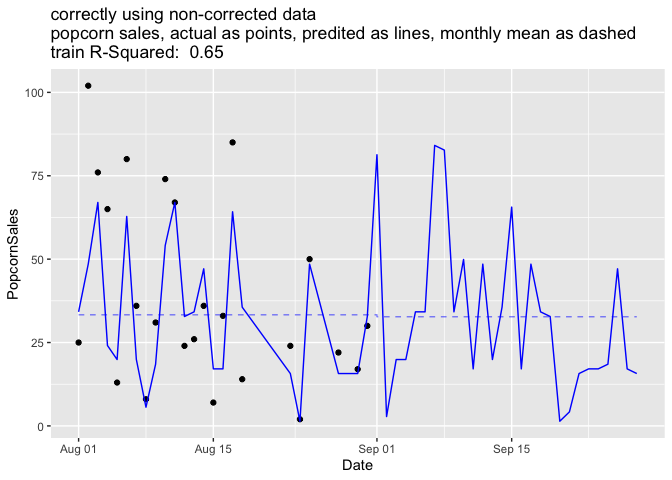
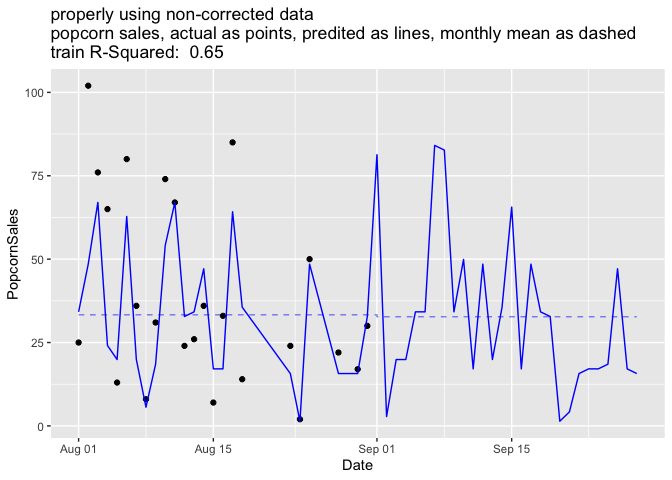
edit

Changed region(s): [[0.0625, 0.0, 0.4688, 0.0625]]

diff --git a/versioning_data/Please_Version_Data.md b/versioning_data/Please_Version_Data.md
@@ -6,20 +6,22 @@ Please Version Data
 
 An important goal of our [Win Vector LLC teaching
 offerings](https://win-vector.com/training-overview/) is to instill in
-engineers an empathy of how data is likely to be used. Having such
-engineers in your organization *greatly* increases the quality of data
-later available to your analysts and data scientists. This greatly
-expands what is possible in prediction and forecasting, which can lead
-to significant revenue opportunities.
+engineers some familiarity with and empathy for how data is likely to be
+used for analytics and business. Having such engineers in your
+organization *greatly* increases the quality of data later available to
+your analysts and data scientists. This in turn expands what is possible
+in prediction and forecasting, which can lead to significant revenue
+opportunities.
 
-I’d like to illustrate this with an example.
+I’d like to illustrate a data issue that can squander such opportunities
+with an example.
 
 ## An Example Problem
 
-Suppose you are purchasing predicted and scheduled movie attendance data
-for your region. The data is initially described as having aligned
-published movie schedules with a projection of attendance and looks like
-the following schedule from [The Roxie movie
+Suppose you are purchasing past scheduled and future predicted movie
+attendance data for your region. The data is initially described as
+having aligned published movie schedules with a projection of attendance
+and looks like the following schedule from [The Roxie movie
 house](https://roxie.com/calendar/).
 
 ``` r
@@ -250,7 +252,7 @@ events they *edit* the event record to reflect actual ticketed
 attendance. This correction seems like an improvement, until one
 attempts a project spanning both past (used for training) and future
 (used for application) data. This is a *severe* form of undesirable
-concept-drift or non-exchangeability. Or: we need the imposed practice
+concept-drift or data non-exchangeability. We need the imposed practice
 or rehearsal conditions to simulate the required performance conditions.
 
 No amount of back-testing on past data would show the effect. Only
@@ -296,7 +298,7 @@ d_est |>
 
 We now have the older estimates are just as bad as the future estimates-
 so learning to work with them will help us in the future. For our
-application is in fact an improvement.
+application this is in fact an improvement.
 
 Let’s repeat our modeling effort with the uncorrected (not retouched)
 data.
@@ -333,7 +335,7 @@ ggplot(
   geom_line(mapping=aes(y=PredictedPopcorn), color='Blue') +
   geom_step(mapping=aes(y=MeanPredictedPopcorn), directon='mid', color='Blue', alpha=0.5, linetype=2) +
   ggtitle(paste(
-    'correctly using non-corrected data\npopcorn sales, actual as points, predited as lines, monthly mean as dashed\ntrain R-Squared: ', 
+    'properly using non-corrected data\npopcorn sales, actual as points, predited as lines, monthly mean as dashed\ntrain R-Squared: ', 
     sprintf('%.2f', train_est_R2)))
 ```
 
@@ -350,8 +352,8 @@ such are not going to be available during application).
 ## Conclusion
 
 The performance of a model on held-out data is only a proxy measure for
-future model performance. In our example we see that this common proxy
-idea breaks down when there is a data concept-change between the
+future model performance. In our example we see that the desired
+connection breaks down when there is a data concept-change between the
 training and application periods. The fix is: using “as of” data or
 bitemporal modeling.
 
@@ -371,11 +373,11 @@ Data users should *insist* on bitemporal data for forecasting
 applications. When date or time enter the picture- it is rare that there
 is only one key. Most date/time questions unfortunately can not be
 simplified down to “what is the prediction for date x?” Instead one
-needs to respect structures such as “what is the best predition for date
-x, using a model trained up through what was known at date y, and taking
-inputs known up through date z?” To even back test such models one needs
-a bitemporal database (to control what data looked like at different
-times).
+needs to respect structures such as “what is the best prediction for
+date x, using a model trained up through what was known at date y, and
+taking inputs known up through date z?” To even back test such models
+one needs a bitemporal database (to control what data looked like at
+different times).
 
 ## Appendix
 
